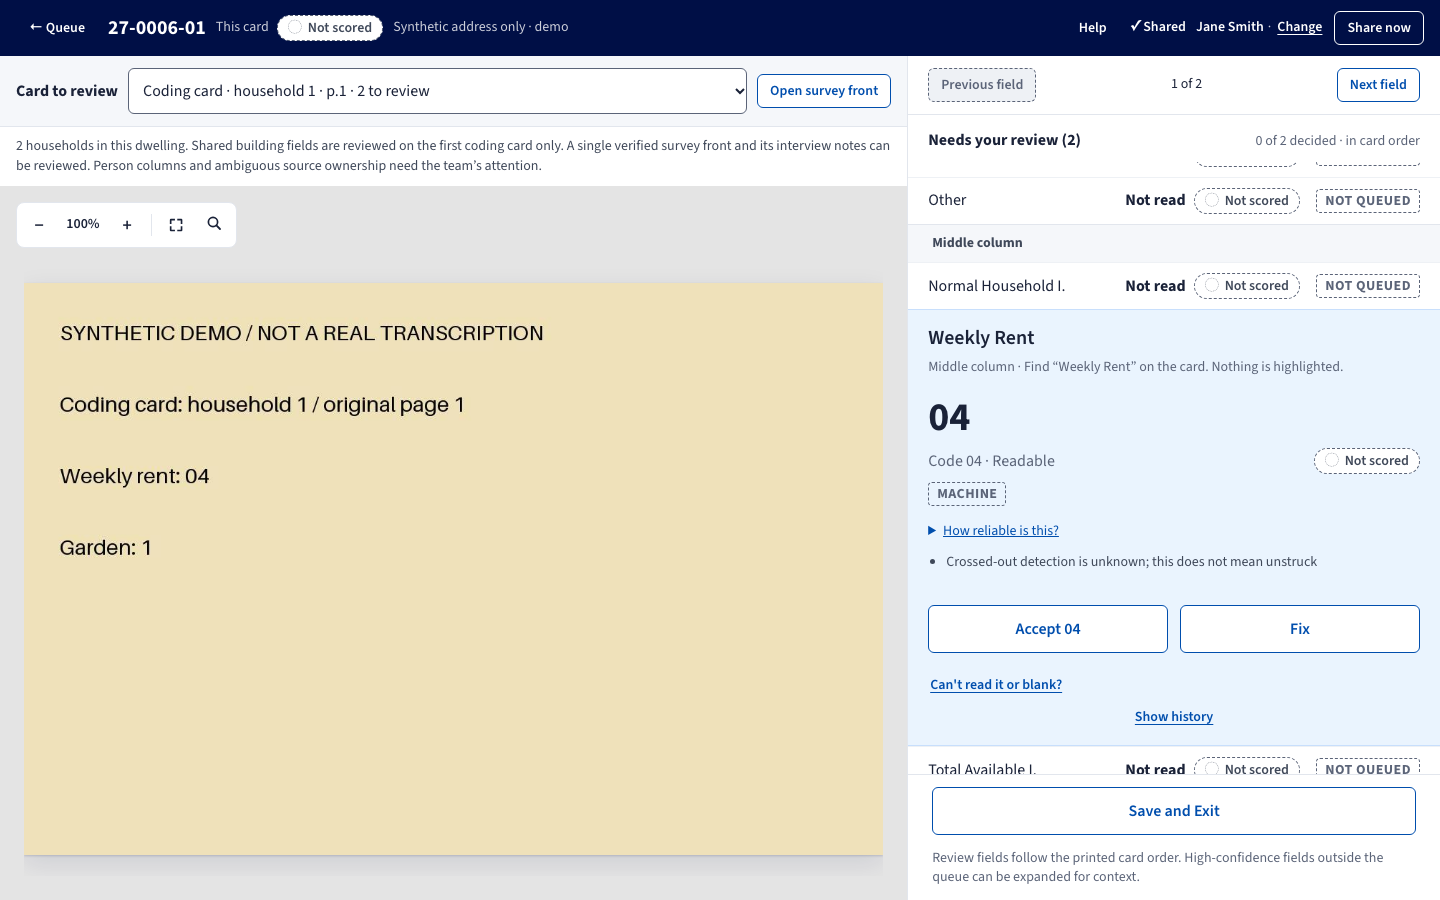
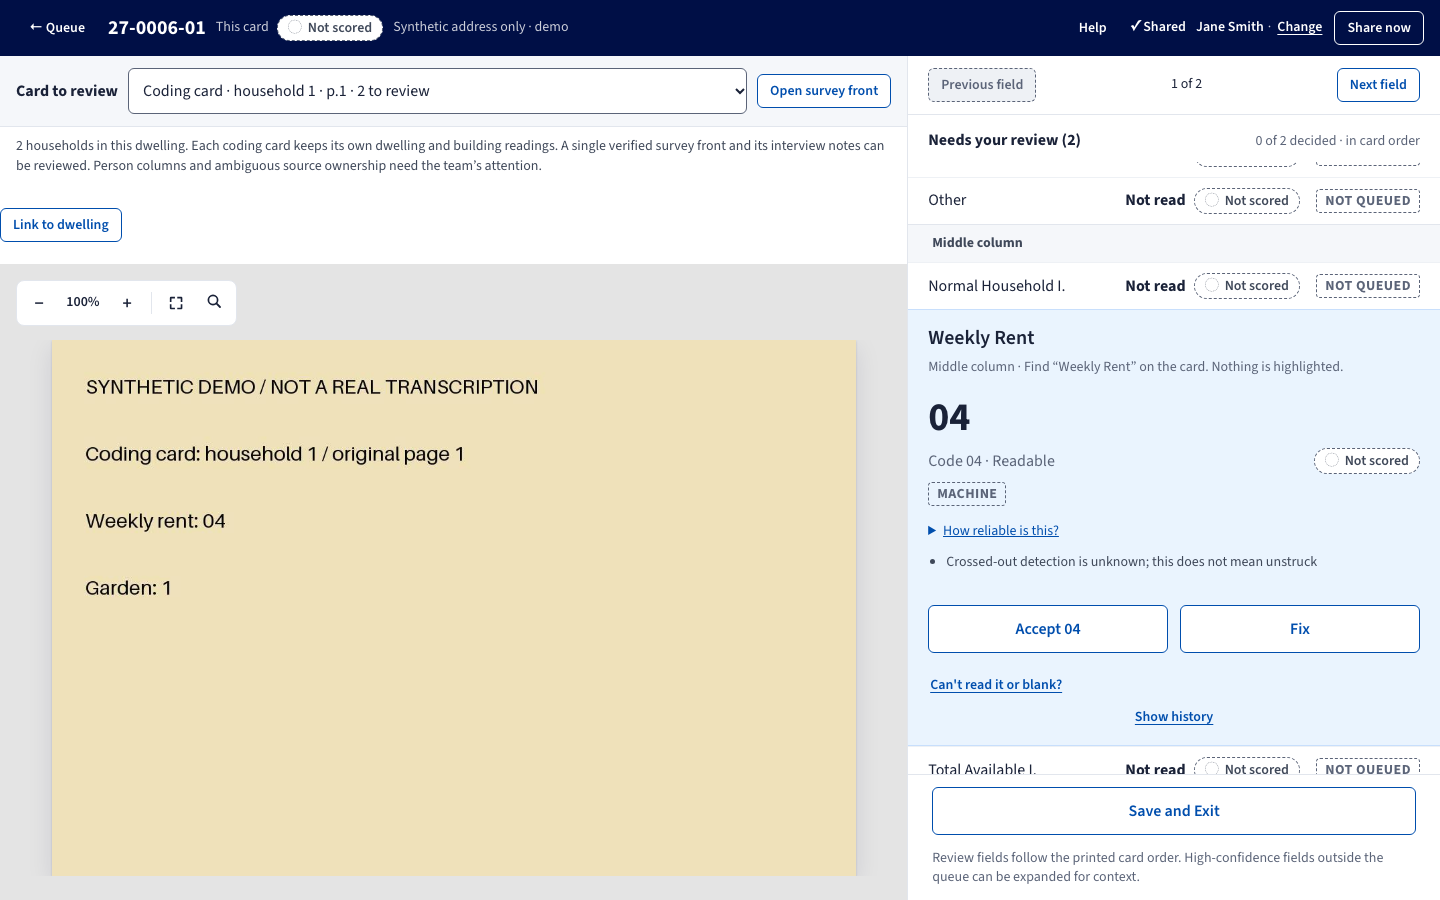
repo: IT-147: update review manual for per-card relinking (PR #76)

Changed region(s): [[0.0, 0.1556, 0.6562, 0.9956]]

diff --git a/REVIEW-TOOL-MANUAL.md b/REVIEW-TOOL-MANUAL.md
@@ -5,8 +5,8 @@ and fix the ones it got wrong.
 
 | Section | Jump to |
 | --- | --- |
-| **[Setup](#setup)**<br>Once per computer, about 30 min | [Install](#1-install-git-and-uv) · [Code](#2-get-the-code) · [Data](#3-get-the-data) · [GitHub sign-in](#4-sign-in-to-github) · [Review list](#5-make-the-review-list) · [Settings](#6-fill-in-the-settings-file) · [Drive API key](#7-set-up-scan-downloads-optional) · [Shortcut](#8-make-a-desktop-shortcut) |
-| **[Reviewing](#reviewing)**<br>Every session | [Start](#start-the-tool) · [Sign in](#sign-in) · [Pick a dwelling](#pick-a-dwelling) · [Scans](#getting-the-scans) · [Review screen](#the-review-screen) · [Decide](#make-a-decision) · [Undo](#undo) · [Shortcuts](#keyboard-shortcuts) |
+| **[Setup](#setup)**<br>Once per computer, about 30 min | [Install](#1-install-git-and-uv) · [Code](#2-get-the-code) · [Data](#3-get-the-data) · [GitHub sign-in](#4-sign-in-to-github) · [Review list](#5-make-the-review-list) · [Settings](#6-fill-in-the-settings-file) · [Drive API key](#7-set-up-scan-downloads-optional) · [Shortcut](#8-make-a-desktop-shortcut) · [Updating](#updating) |
+| **[Reviewing](#reviewing)**<br>Every session | [Start](#start-the-tool) · [Sign in](#sign-in) · [Pick a dwelling](#pick-a-dwelling) · [Scans](#getting-the-scans) · [Review screen](#the-review-screen) · [Decide](#make-a-decision) · [Dwelling numbers](#fixing-a-municipality-or-dwelling-number) · [Undo](#undo) · [Shortcuts](#keyboard-shortcuts) |
 | **[Saving and sharing](#saving-and-sharing)** | [Saving](#saving) · [Sharing](#sharing) · [Stopping](#stopping) |
 | **[Troubleshooting](#troubleshooting)** | Errors and what to do |
 | **[Practice run](#practice-run)** | Try it on fake data first |
@@ -109,7 +109,8 @@ uv run survey flags "C:\Survey Review Data\results" > "C:\Survey Review\flags.js
 
 Both commands should finish without an error. Keep `flags.jsonl` and reuse it
 every time you open the tool. Your progress is not stored in this file, so
-there's no need to remake it. Only remake it if the team re-runs the extraction.
+there's no need to remake it after a session. Only remake it when the data
+itself changes: see [Updating](#updating).
 
 Don't save the flags file inside the data folder's `results` folder.
 
@@ -167,6 +168,19 @@ cd "/path/to/survey-review"
 uv run survey review --open-browser
 ```
 
+### Updating
+
+When the team says there's a new version, stop the tool, then update the code
+and data together and remake the review list:
+
+```bat
+git -C "C:\Survey Review\survey-review" pull
+git -C "C:\Survey Review Data" pull
+cd /d "C:\Survey Review\survey-review"
+uv sync --locked
+uv run survey flags "C:\Survey Review Data\results" > "C:\Survey Review\flags.jsonl"
+```
+
 ---
 
 ## Reviewing
@@ -217,7 +231,8 @@ scans** above the list.
 - Without one, choose **Open in Drive**, download the PDF in your browser, then
   choose **Import downloaded PDF** and pick the file you downloaded.
 
-You only need to do this once per region.
+You only need to do this once per region. The panel also counts duplicate
+cards and pending links. These don't stop a region being finished.
 
 ### The review screen
 
@@ -238,7 +253,8 @@ a closer look, use the **+** and **−** buttons, or click the scan and press
 
 A dwelling can have more than one card. Use **Card to review** at the top to
 switch between them. **Open survey front** jumps to the handwritten front of
-the survey.
+the survey. Each card has its own municipality, dwelling number and building
+fields, so check them on every card.
 
 ### Make a decision
 
@@ -269,11 +285,40 @@ field:
 
 ![A saved correction, with Undo](docs/images/review-tool-manual/06-saved.png)
 
+### Fixing a municipality or dwelling number
+
+These two fields decide which dwelling a card belongs to, so fixing one can
+move the card. If exactly one other dwelling matches, and its survey front
+agrees, the card moves there by itself.
+
+If a fix to any of the card's numbers (including household) makes them match
+another card's, you're asked to confirm first:
+
+![The duplicate check, with Compare, Go back and Save anyway](docs/images/review-tool-manual/09-duplicate.png)
+
+**Compare** shows both cards side by side. **Save anyway** keeps both cards and
+flags them. A yellow bar then stays on the card. Its **Compare** lets you fix
+the *other* card instead, if that's the wrong one.
+
+To move a card yourself, choose **Link to dwelling**, pick a dwelling (or
+**Keep in a separate coding-only provisional dwelling**), then **Save link**.
+
+![Choosing a dwelling to link the card to](docs/images/review-tool-manual/10-link.png)
+
+If the card is the last one in its dwelling, tick **Retain all former
+fronts…** first. That dwelling's front, notes and people are kept read-only
+under **Retained evidence**.
+
+Not sure which dwelling is right? Leave it and tell the team.
+
 ### Undo
 
 Choose **Undo** on the green bar, or press **U**. You can undo several times in
 a row, newest first. Nothing is ever deleted: **Show history** under each field
 lists every decision made on it, who made it, and when.
+
+To undo a move, choose **Undo last link** on the card. Later fixes to the card
+are kept.
 
 ### Fields you can't change
 
@@ -345,6 +390,9 @@ Next time, sign in with the same name and choose **Continue**.
 | "Startup failed" in the console | Read the lines above it. A wrong path in `.env`, a GitHub sign-in problem, or the tool already running in another console window are the usual causes. Only one copy can run at a time. |
 | The scan won't load | The PDF isn't in the scans folder. See [Getting the scans](#getting-the-scans). |
 | "Try again" after saving | The save wasn't confirmed. Choose **Try again**. Your typed value is kept. |
+| "Reload the current card before continuing" | Your decision is saved. Refresh the browser page. |
+| A link or **Undo last link** is refused | The message says why. Pick another dwelling, or tell the team. |
+| The tool won't start after an update | See [Updating](#updating). |
 | "Couldn't share yet" won't go away | Check your internet connection, then **Share now**. If it still fails, redo step 4 (Sign in to GitHub). |
 | "Ask the team to reconcile this region" | Someone else changed the same region at the same time. Stop the tool and contact the team. Don't try to fix it in Git yourself. Both copies of the work are kept. |
 | The tool asks for your name again | It was restarted. Type the same name as before. |
